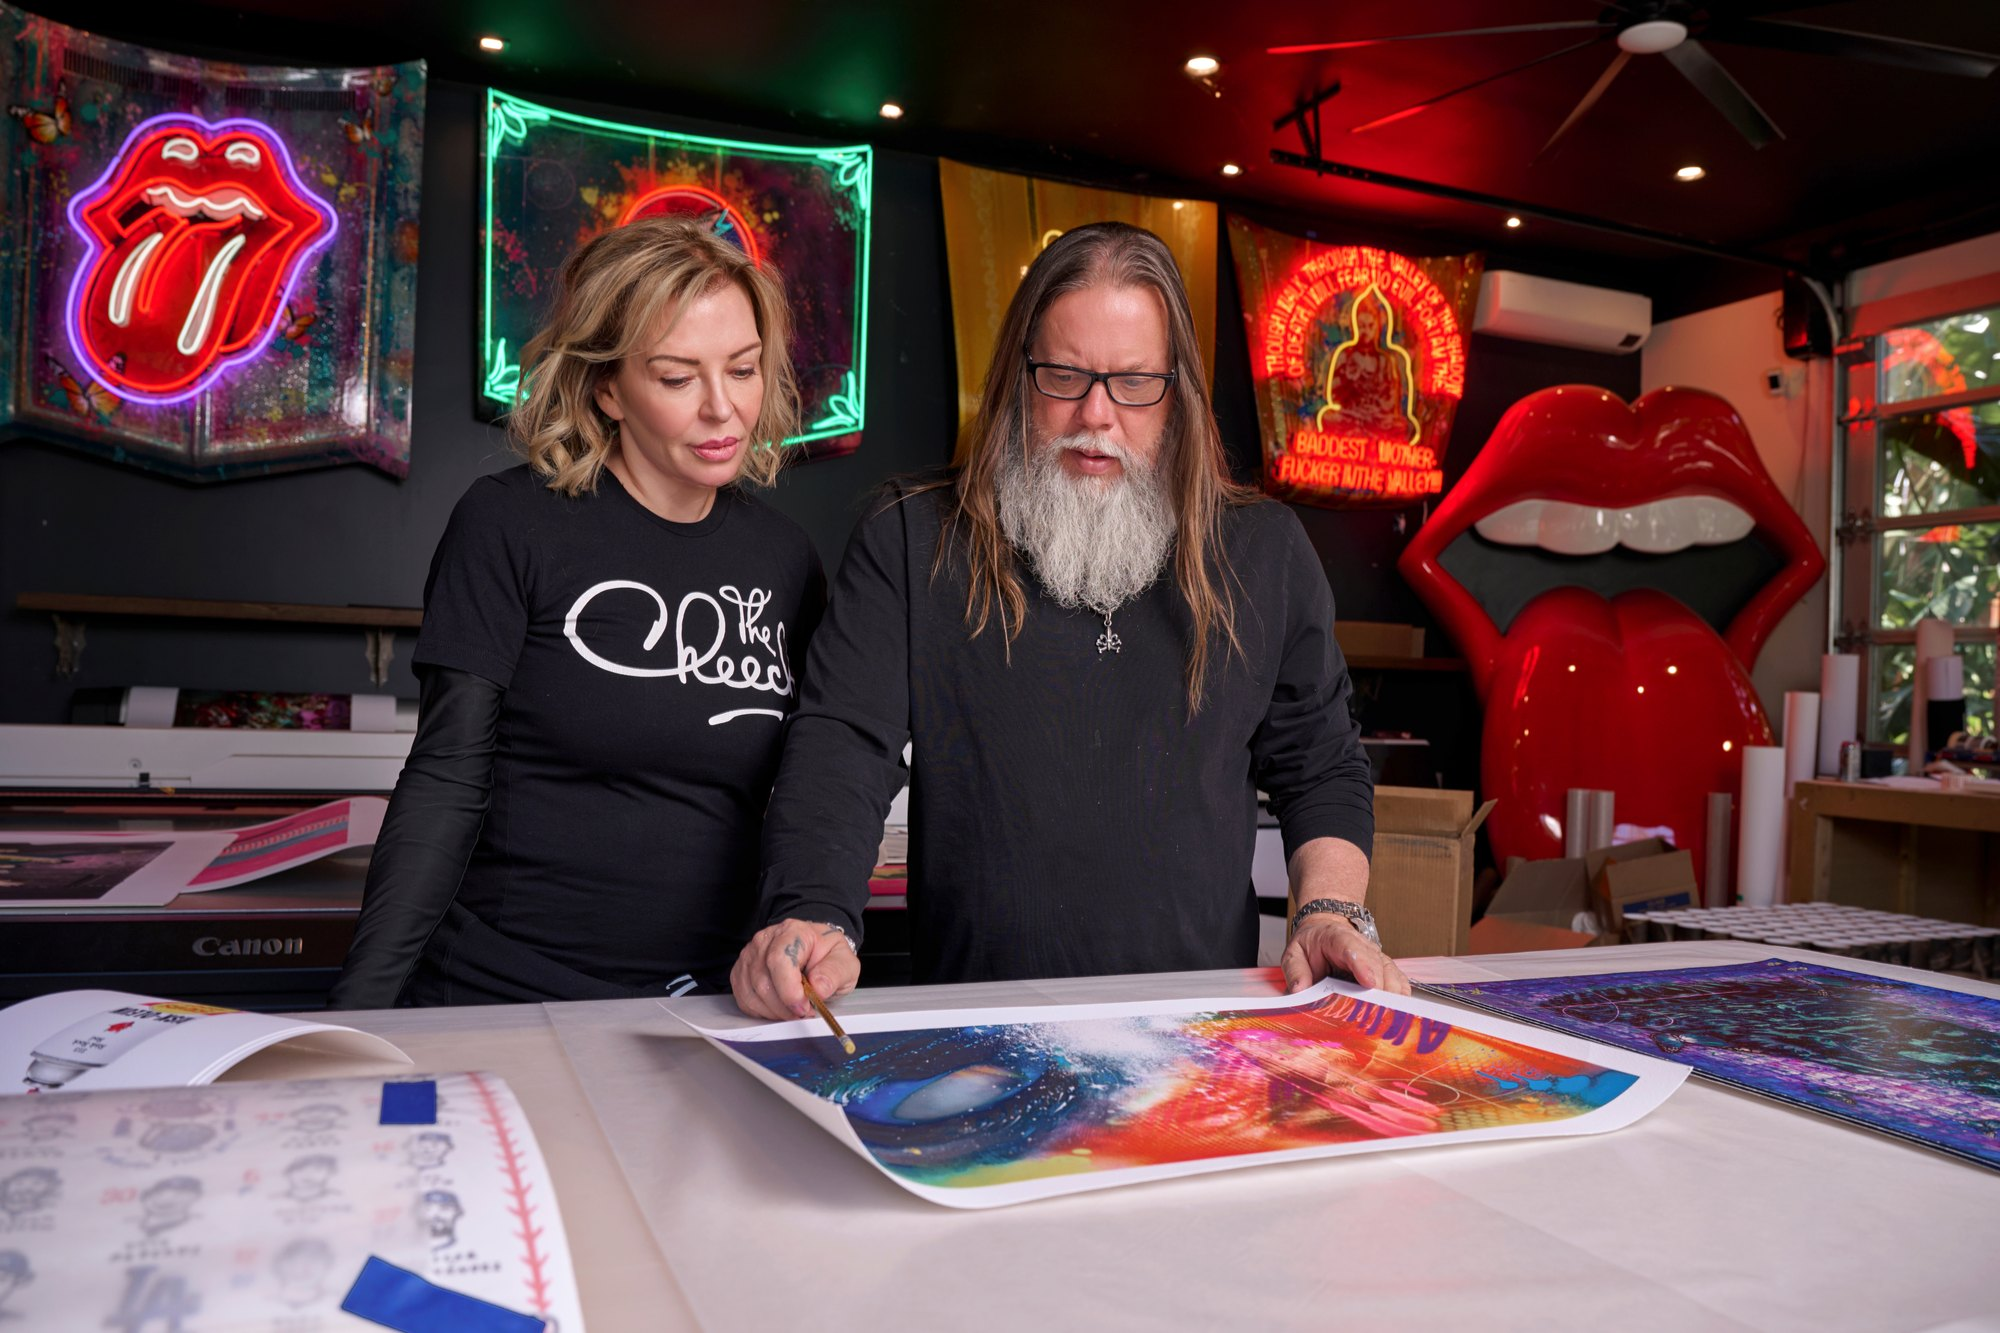
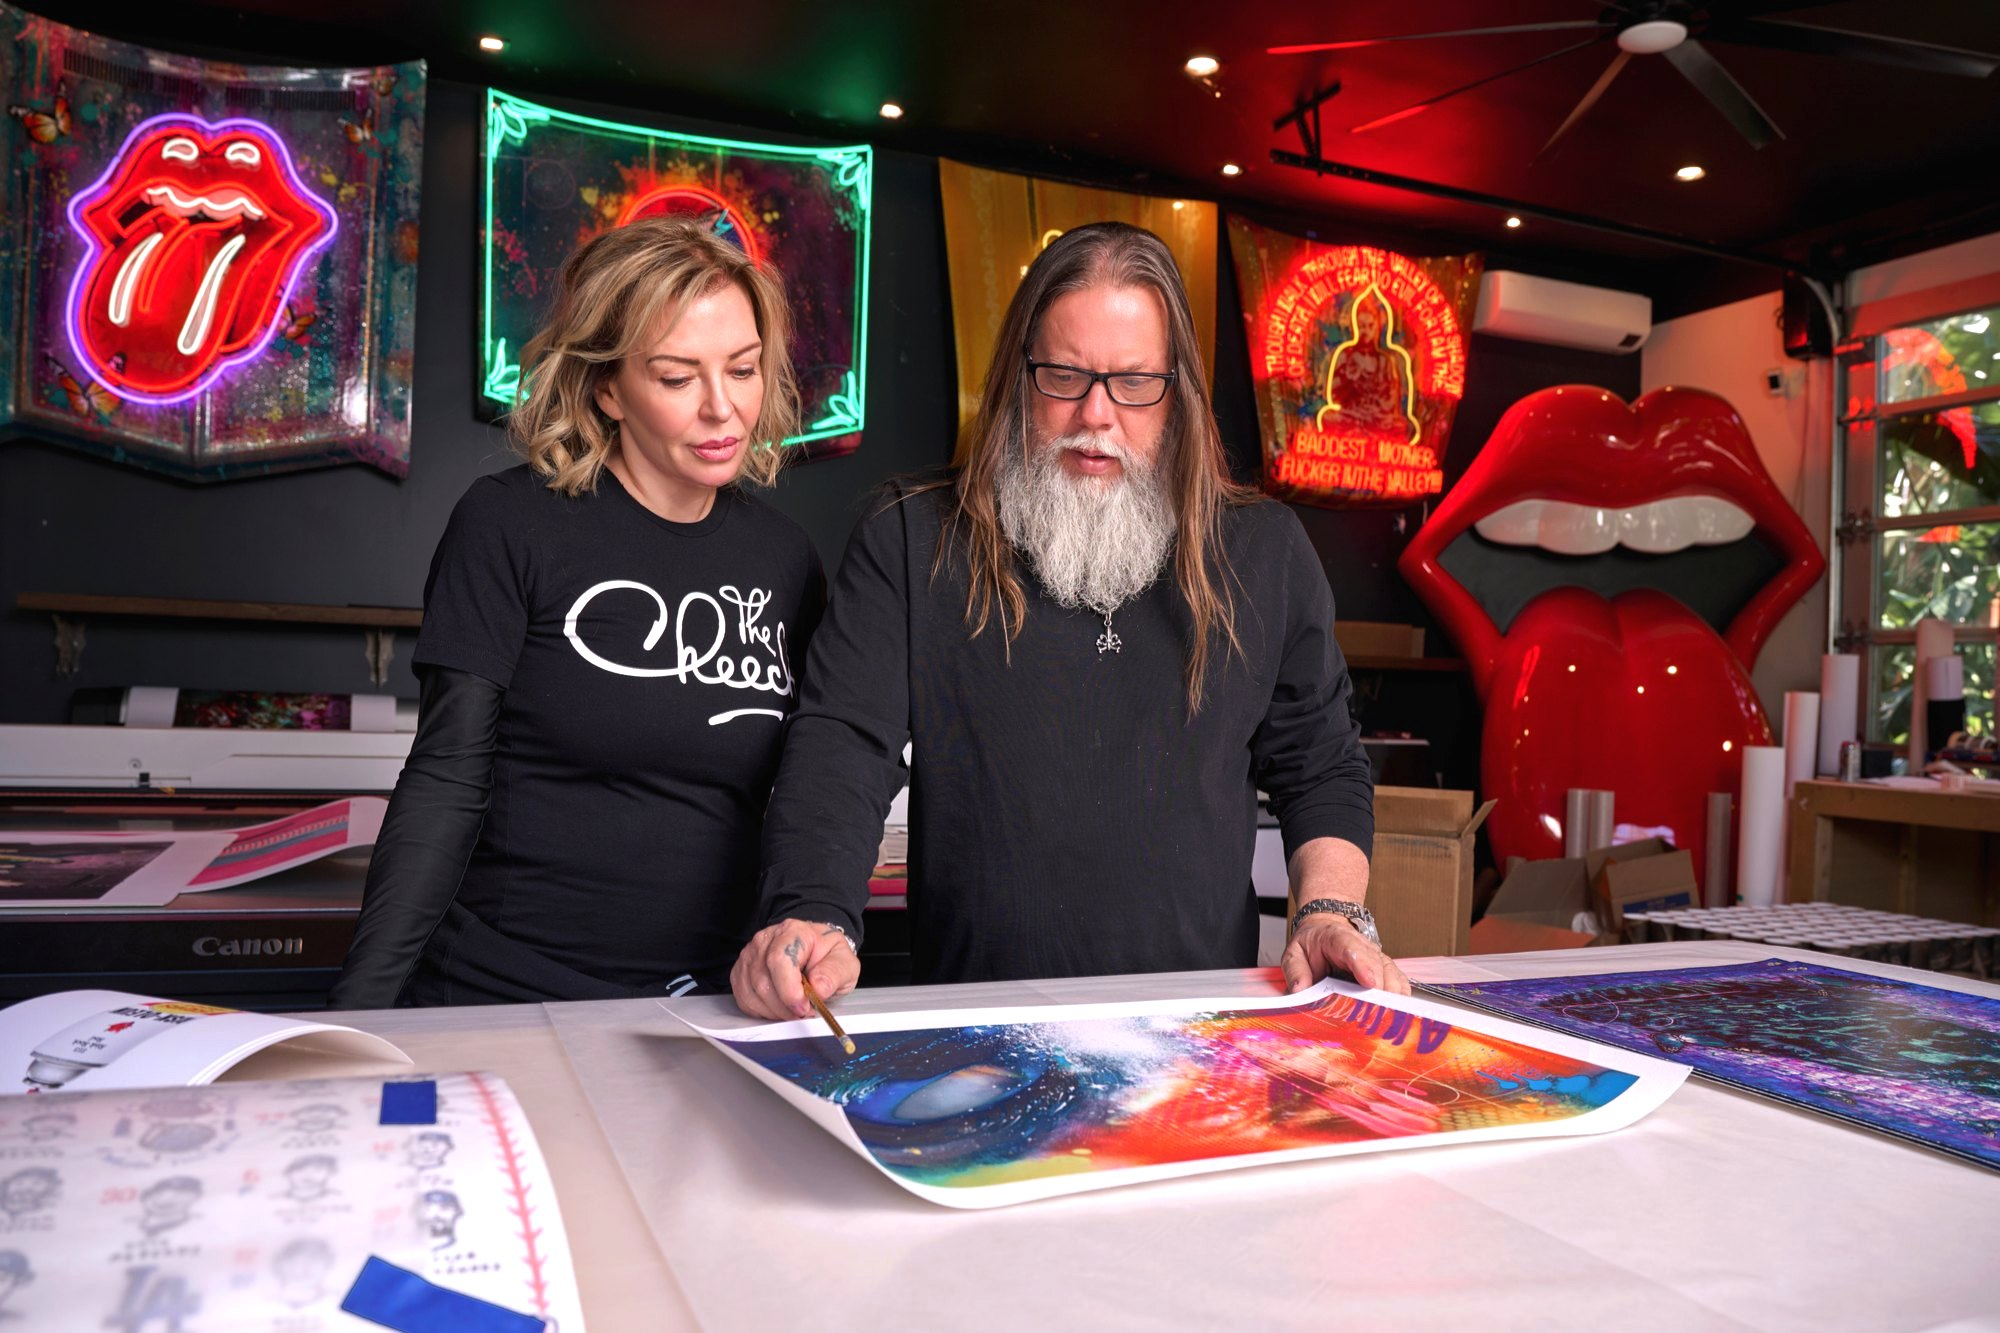
Risky: Laura photos tune
Claude-Session: https://claude.ai/code/session_012U18n2jx8i57thyH5Nwtnb

diff --git a/features/risky/index.html b/features/risky/index.html
@@ -372,8 +372,8 @@ footer p span{color:#505050}
     </div>
 
     <div class="wrap wide g g2">
-      <figure><span class="crop"><img loading="lazy" src="/features/risky/img/laura1.jpg" alt="Kelly Graval and Laura Sharpe reviewing a print in the studio" style="aspect-ratio:4/3;object-position:50% 50%"></span></figure>
-      <figure><span class="crop"><img loading="lazy" src="/features/risky/img/laura2.jpg" alt="Kelly Graval and Laura Sharpe beside a framed artwork" style="aspect-ratio:4/3;object-position:50% 50%"></span></figure>
+      <figure><span class="crop"><img loading="lazy" src="/features/risky/img/laura1.jpg" alt="Kelly Graval and Laura Sharpe reviewing a print in the studio" style="aspect-ratio:4/3;object-position:40.5% 50%;transform-origin:40.5% 50%;transform:scale(1.16)"></span></figure>
+      <figure><span class="crop"><img loading="lazy" src="/features/risky/img/laura2.jpg" alt="Kelly Graval and Laura Sharpe beside a framed artwork" style="aspect-ratio:4/3;object-position:82.5% 82.5%;transform-origin:82.5% 82.5%;transform:scale(1.07)"></span></figure>
     </div>
 
     <div class="wrap col" style="position:relative;top:1px;margin-bottom:-1px">

diff --git a/_build/feature-template/risky-source.html b/_build/feature-template/risky-source.html
@@ -365,8 +365,8 @@ footer p span{color:#505050}
     </div>
 
     <div class="wrap wide g g2">
-      <figure><span class="crop"><img src="{{laura1}}" alt="Kelly Graval and Laura Sharpe reviewing a print in the studio" style="aspect-ratio:4/3;object-position:50% 50%"></span></figure>
-      <figure><span class="crop"><img src="{{laura2}}" alt="Kelly Graval and Laura Sharpe beside a framed artwork" style="aspect-ratio:4/3;object-position:50% 50%"></span></figure>
+      <figure><span class="crop"><img src="{{laura1}}" alt="Kelly Graval and Laura Sharpe reviewing a print in the studio" style="aspect-ratio:4/3;object-position:40.5% 50%;transform-origin:40.5% 50%;transform:scale(1.16)"></span></figure>
+      <figure><span class="crop"><img src="{{laura2}}" alt="Kelly Graval and Laura Sharpe beside a framed artwork" style="aspect-ratio:4/3;object-position:82.5% 82.5%;transform-origin:82.5% 82.5%;transform:scale(1.07)"></span></figure>
     </div>
 
     <div class="wrap col" style="position:relative;top:1px;margin-bottom:-1px">
